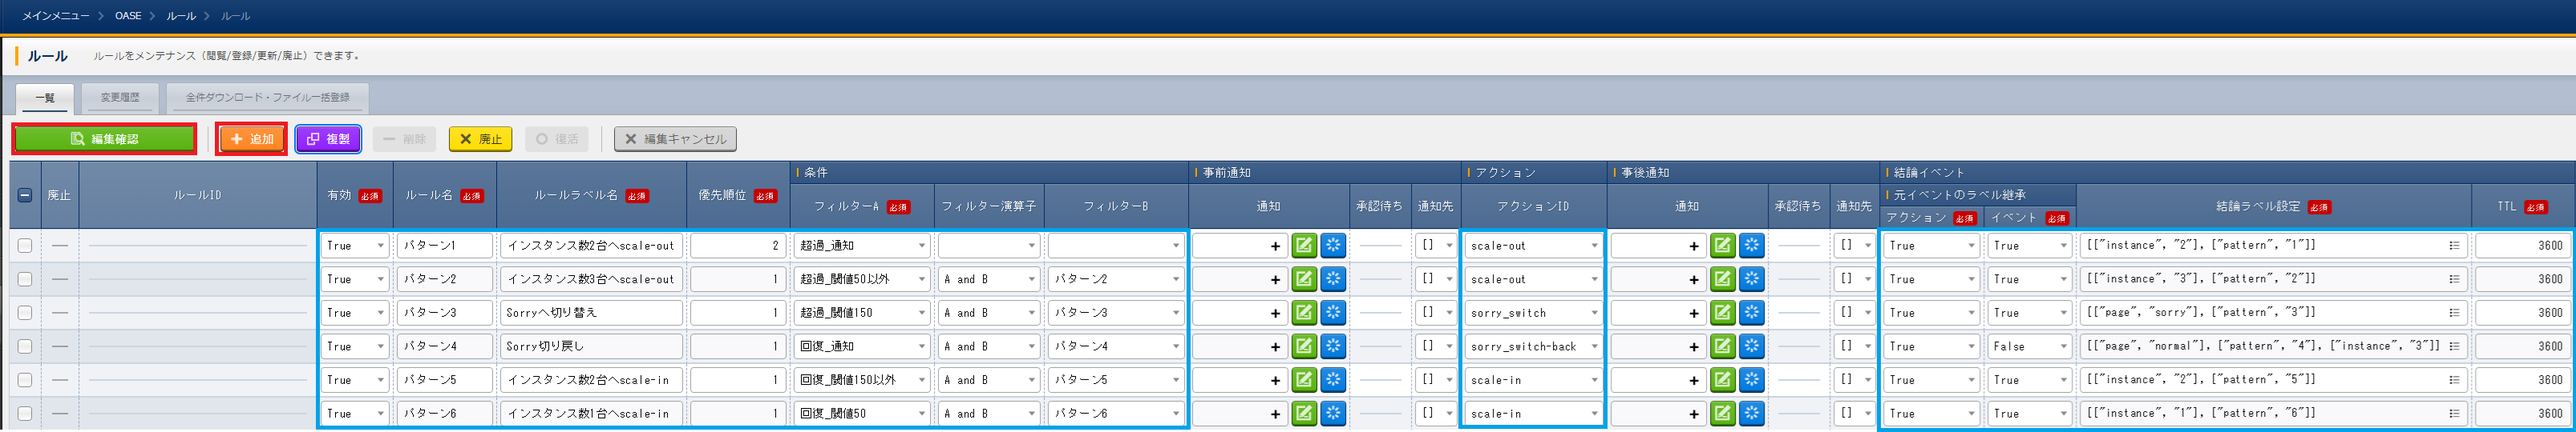
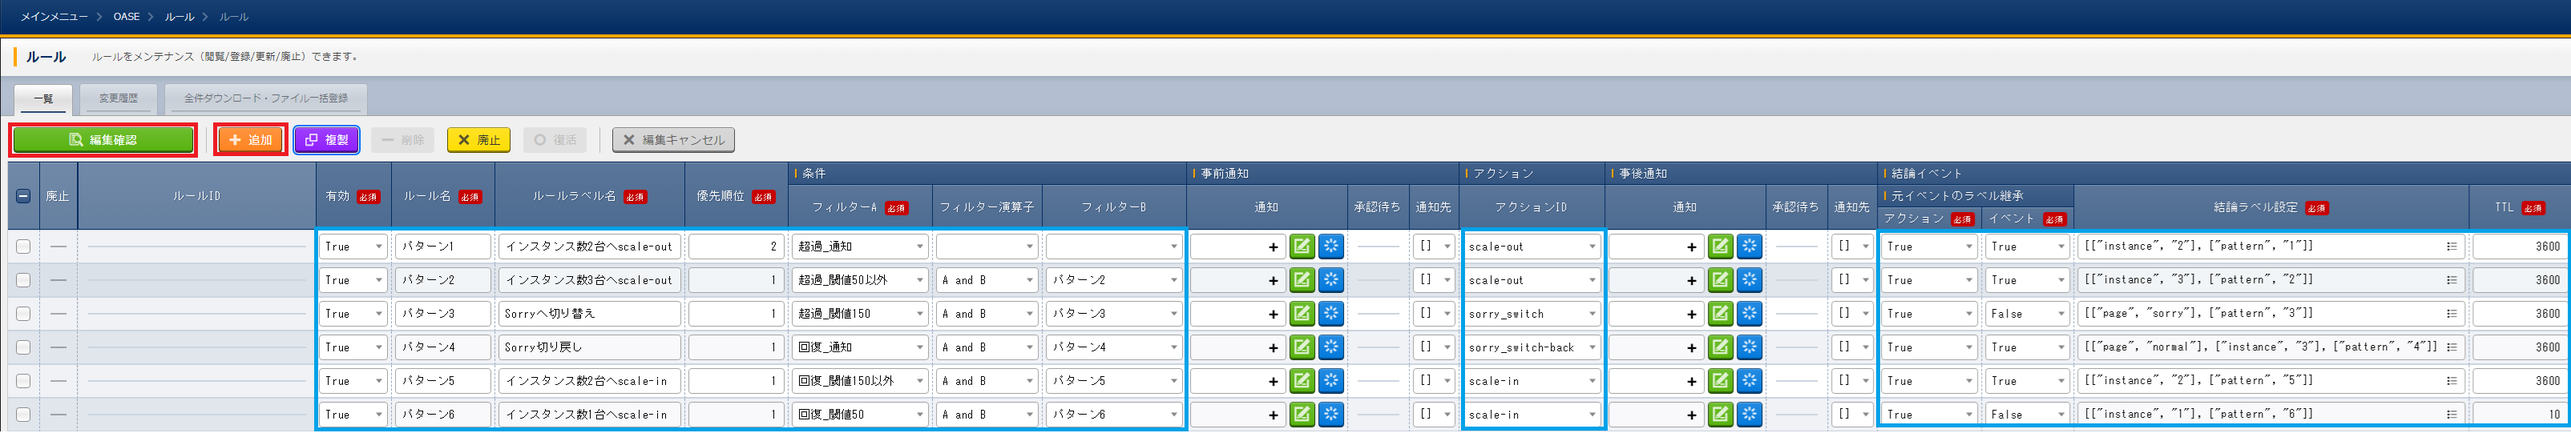
再修正

diff --git a/src/ja/2.4/learn/oase/OASE_master_setting.rst b/src/ja/2.4/learn/oase/OASE_master_setting.rst
@@ -560,9 +560,9 @@ OASEエージェントの設定
      - :kbd:`パターン6`
      - :kbd:`scale-in`
      - :kbd:`True`
-     - :kbd:`True`
+     - :kbd:`false`
      - :kbd:`[["instance", "1"], ["pattern", "6"]]`
-     - :kbd:`3600`
+     - :kbd:`10`
 
 | 入力が終わったら、:guilabel:`編集確認` ボタンを押して登録します。
 
@@ -605,6 +605,10 @@ TTLについて
  | その際に、ループが発生するように「元イベントのラベル継承」をTrueにし、優先順位は「3」としましょう。
  | これにより、ほかのルールが適用されなかった場合、このルールが適用されるようになります。
 
+パターン6について
+ | 平常時に戻った状態となり、次のイベントの条件になることはありません。
+ | そのため、意図しない形でほかの条件となってしまわないように、TTLを最小値にし、念のため、「元イベントのラベル継承」を「false」に設定しておくとよいでしょう。
+
 結果の確認
 -----------
 
@@ -612,6 +616,9 @@ TTLについて
 
 | :menuselection:`OASE --> イベント --> イベントフロー` の画面に、時系列にイベントが発生しているのが確認できます。
 | 複数のアクションが連続して発生している様子を確認してみましょう。
+
+| 以下は、インスタンス1台のときに閾値150リクエスト/minを超過したというリクエスト数超過通知が来た場合と、
+| その後、閾値150リクエスト/min未満に回復したというリクエスト数回復通知が来た場合のものになります。
 
 .. figure:: /images/learn/quickstart/oase/OASE_master_setting/OASE_master_setting_結果確認.gif
    :width: 1200px
